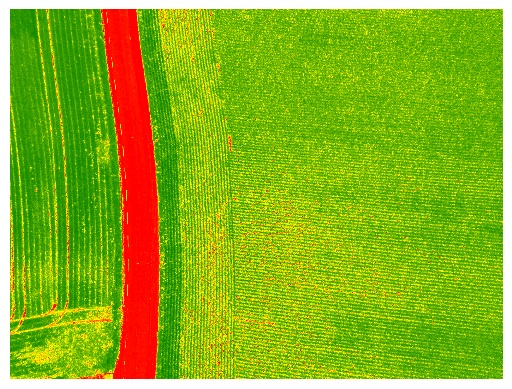
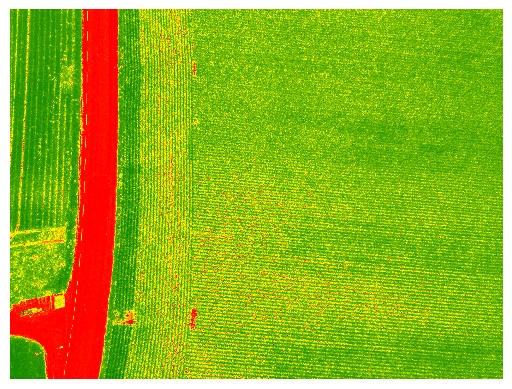
commiting everything in NdviVari branch

diff --git a/minor/vari.py b/minor/vari.py
@@ -36,10 +36,10 @@ def calcVegIndex(img,nir,extension,photo_path,num=0):
         red = (blue + new) ** 2 / bottom
         bot=green + red
         bot[bot==0]=0.0001
-        NDVI = (green - red) / (bot) 
+        VARI = (green - red) / (bot) 
         cmap = matplotlib.colors.LinearSegmentedColormap.from_list("", [ 'red','yellow','green'])
         fig, ax = plt.subplots()
-        ax.imshow(NDVI,cmap=cmap)
+        ax.imshow(VARI,cmap=cmap)
         plt.axis('off') 
         fig.savefig(photo_path+'result.'+extension, bbox_inches='tight')
         plt.clf()
@@ -66,7 +66,7 @@ def calcVegIndex(img,nir,extension,photo_path,num=0):
         dense = 0
         sparse = 0
         barren = 0
-        for list in NDVI:
+        for list in VARI:
             for sublist in list:
                 if (sublist>= 0.6):
                     dense += 1
